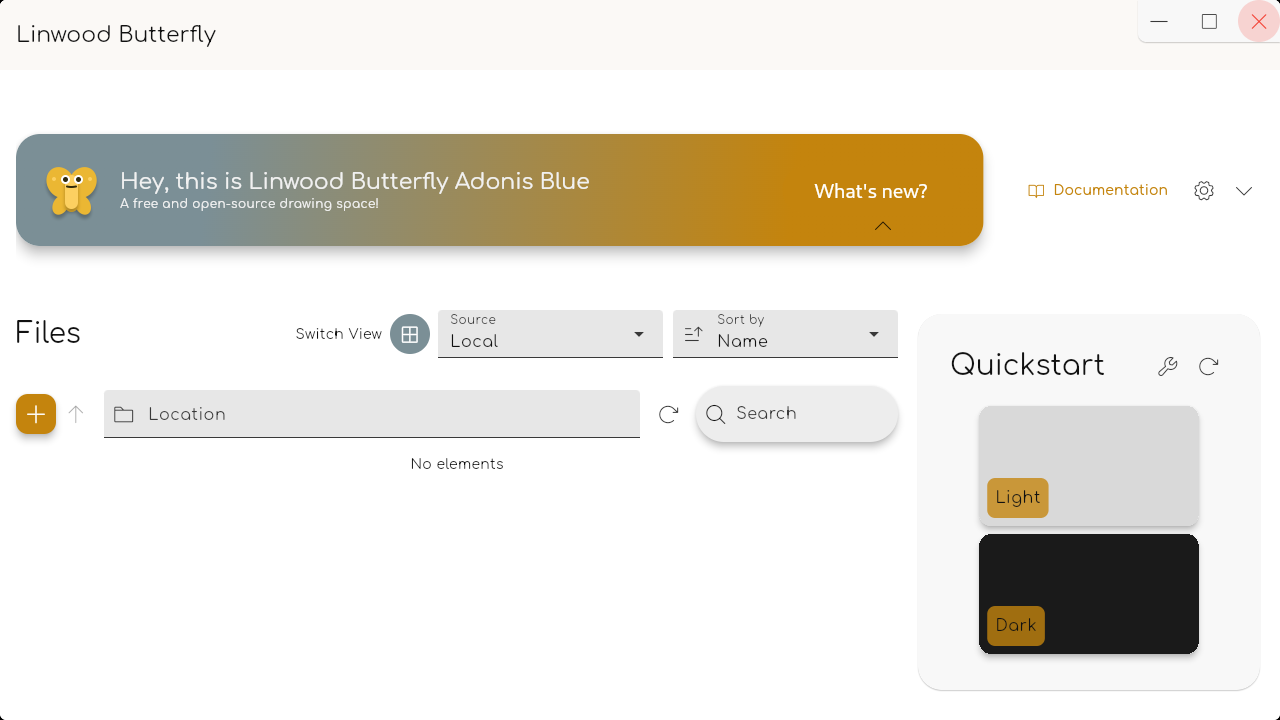
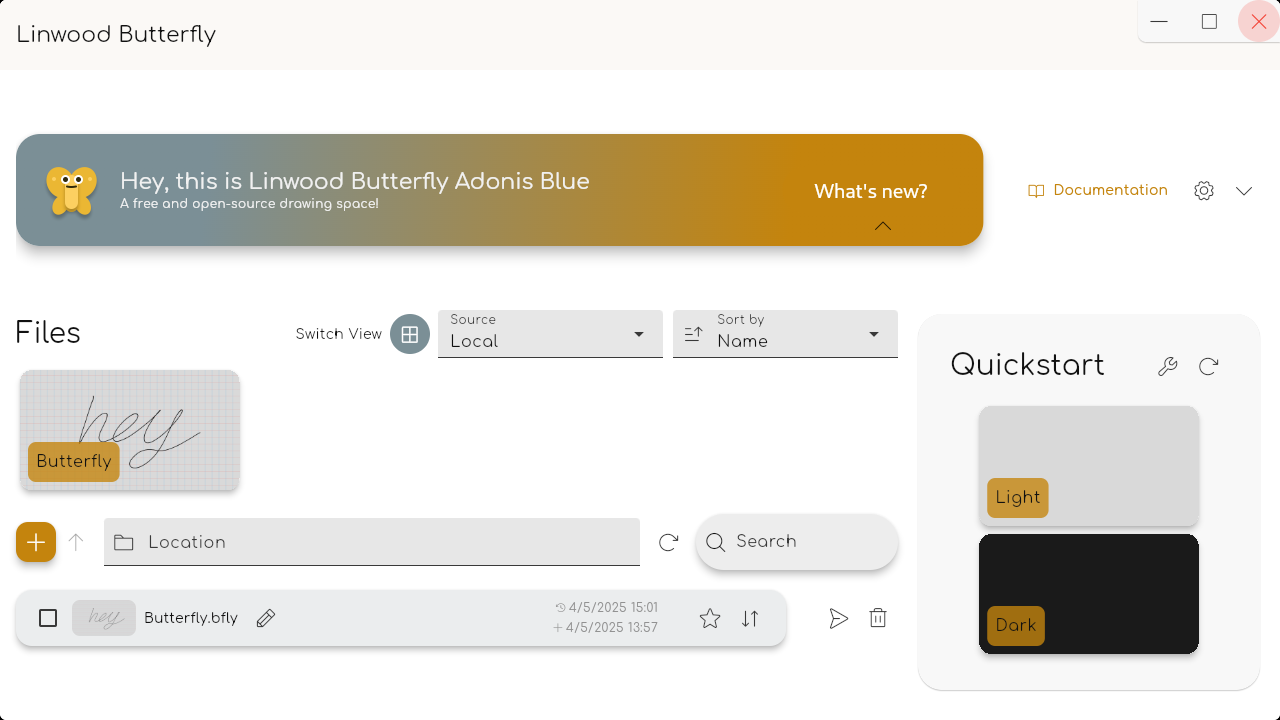
Fix thumbnail capture not using the current viewport

diff --git a/app/lib/selections/document.dart b/app/lib/selections/document.dart
@@ -127,23 +127,22 @@ class _UtilitiesViewState extends State<_UtilitiesView>
                       onTap: () async {
                         final viewport =
                             state.currentIndexCubit.state.cameraViewport;
-                        final size = viewport.toRealSize();
+                        final rect = viewport.toRealRect();
                         final height =
-                            size.width * kThumbnailHeight / kThumbnailWidth;
-                        final heightOffset = (size.height - height) / 2;
-                        final quality = kThumbnailWidth / size.width;
+                            rect.width * kThumbnailHeight / kThumbnailWidth;
+                        final heightOffset = (rect.height - height) / 2;
+                        final quality = kThumbnailWidth / rect.width;
                         final thumbnail = await state.currentIndexCubit.render(
                           state.data,
                           state.page,
                           state.info,
                           ImageExportOptions(
-                            width: size.width,
+                            width: rect.width,
                             height: height,
                             quality: quality,
                             scale: viewport.scale,
-                            x: viewport.x + size.width / viewport.scale,
-                            y: viewport.y +
-                                (heightOffset + size.height) / viewport.scale,
+                            x: rect.left,
+                            y: rect.top + (heightOffset) / viewport.scale,
                           ),
                         );
                         if (thumbnail == null) return;

diff --git a/app/lib/models/viewport.dart b/app/lib/models/viewport.dart
@@ -67,6 +67,17 @@ class CameraViewport extends Equatable {
 
   ui.Size toRealSize() => toSize() / resolution.multiplier;
 
+  ui.Rect toRealRect() {
+    final rect = toRect();
+    final size = toRealSize();
+    return ui.Rect.fromLTWH(
+      rect.left + rect.width / 4,
+      rect.top + rect.height / 4,
+      size.width,
+      size.height,
+    );
+  }
+
   Area toArea() => Area(
         name: '',
         position: toPoint(),
